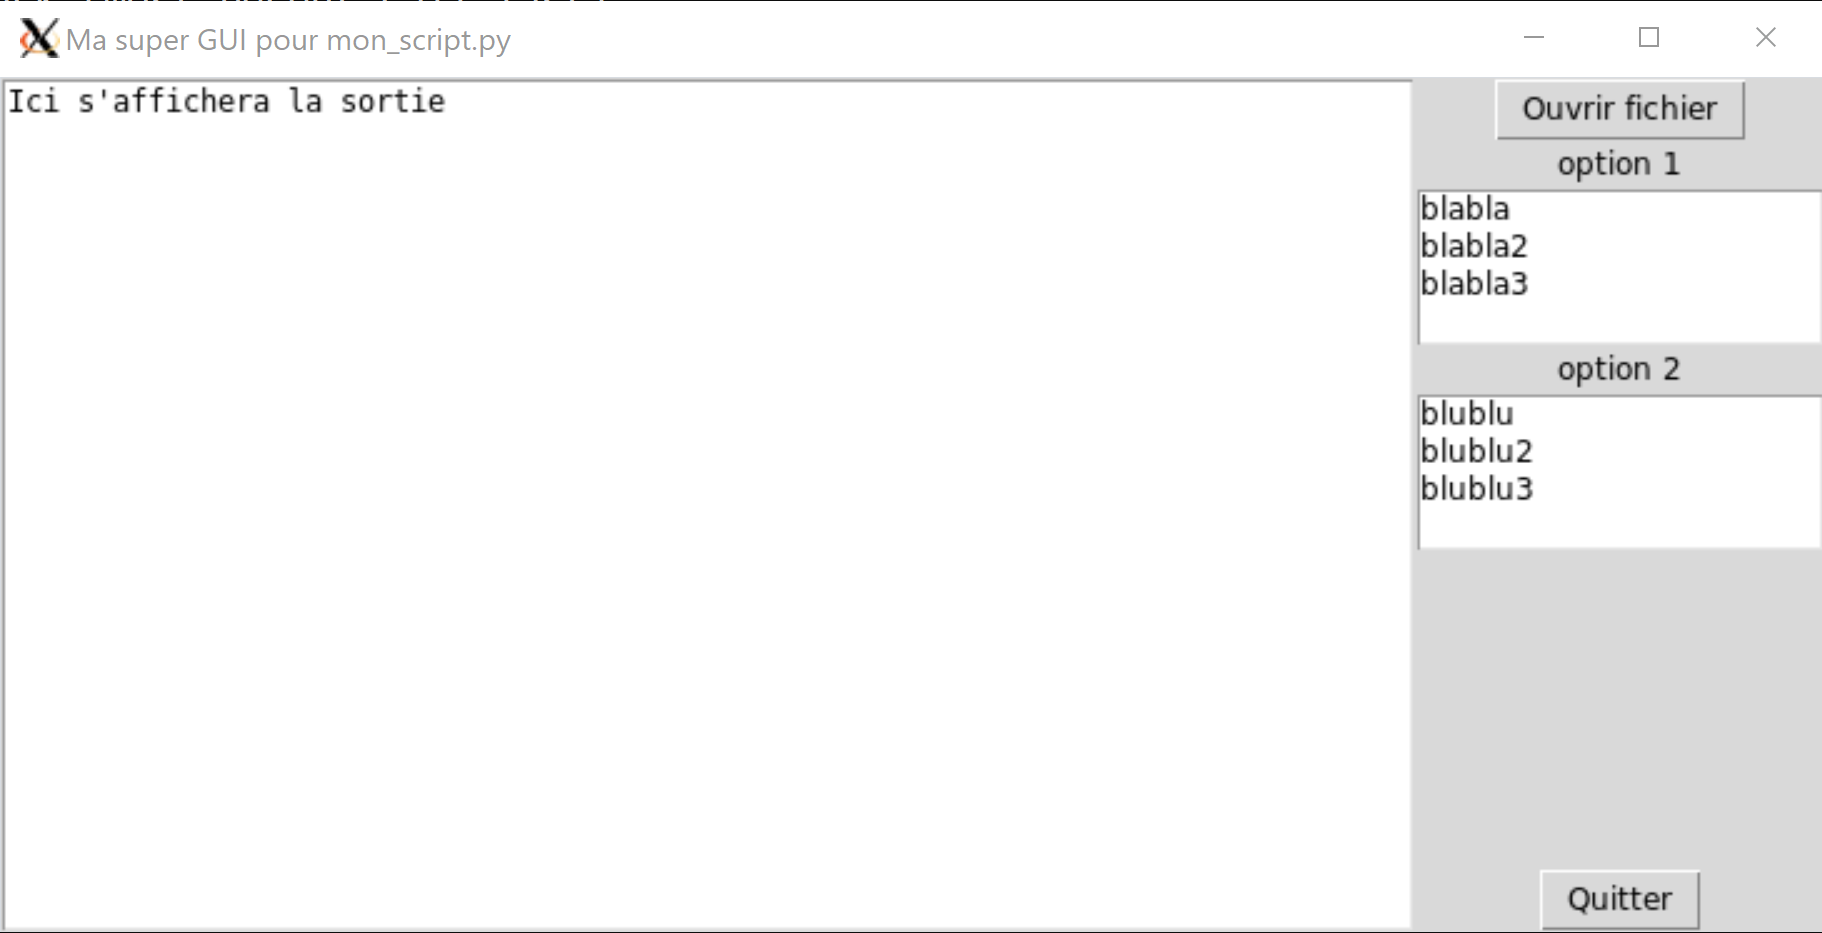
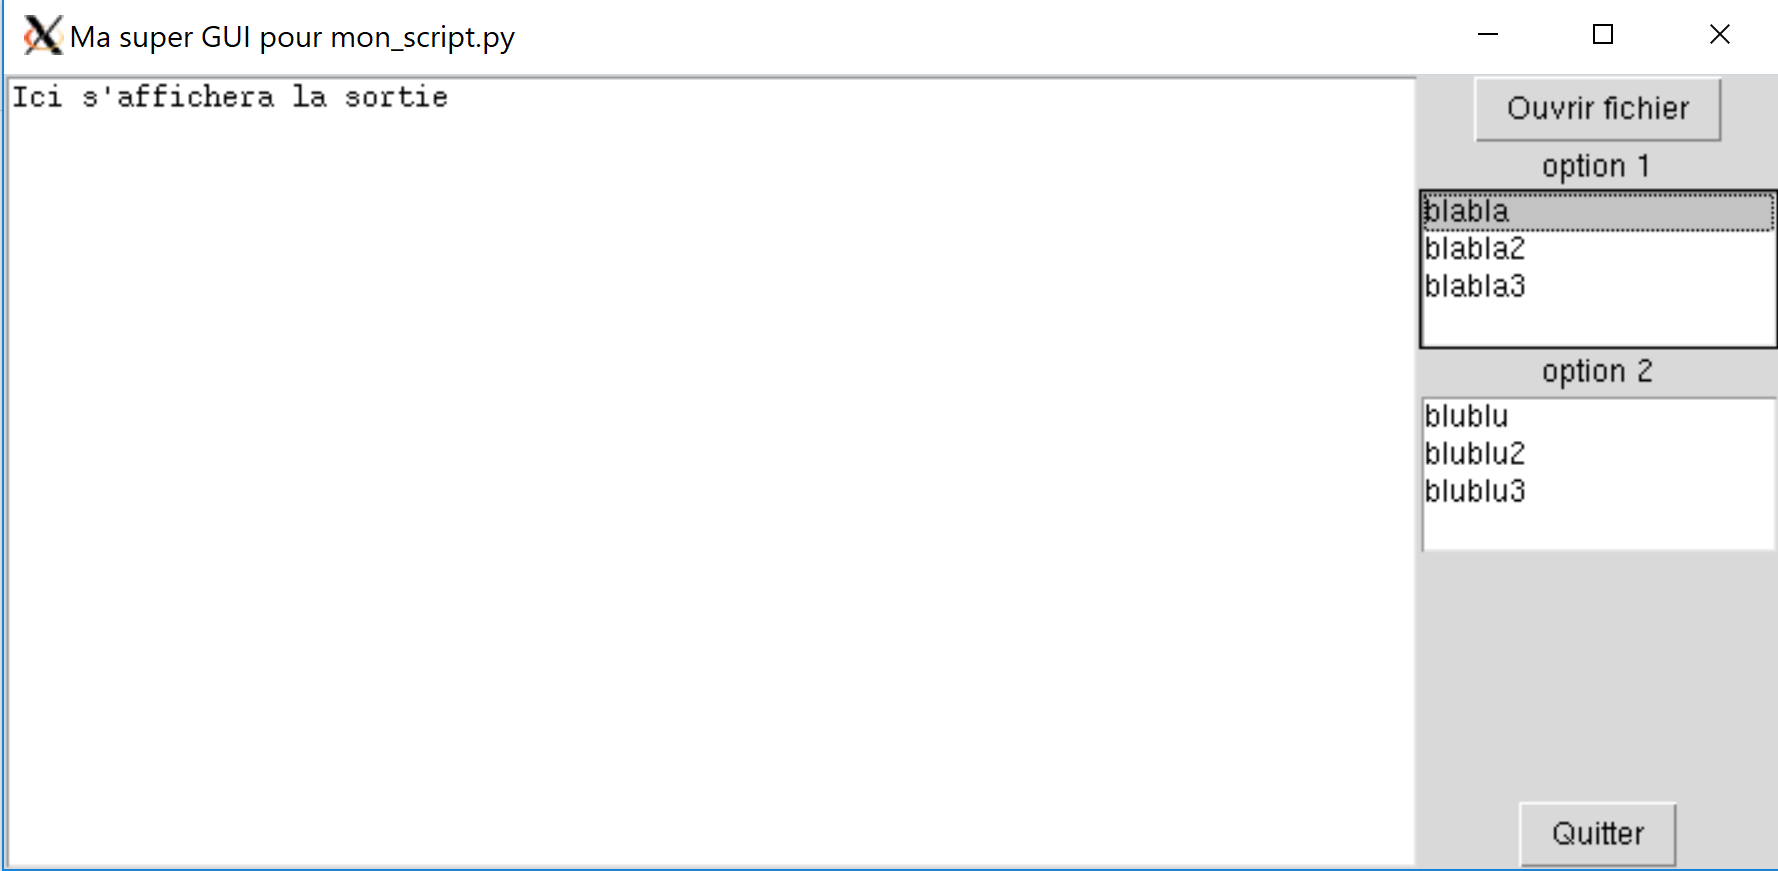
Ajoute source et mets à jour exemple GUI

Changed region(s): [[0.0, 0.0, 1.0, 1.0], [0.9589, 0.031, 0.9899, 0.062]]

diff --git a/img/exemple_GUI.py b/img/exemple_GUI.py
@@ -1,0 +1,36 @@
+#! /usr/bin/env python3
+
+import tkinter as tk
+
+racine = tk.Tk()
+
+text = tk.Text(racine)
+text.pack(side=tk.LEFT)
+text.insert(tk.INSERT, "Ici s'affichera la sortie")
+
+boutton_ouvrir = tk.Button(racine, text="Ouvrir fichier")
+boutton_ouvrir.pack()
+
+label = tk.Label(racine, text="option 1")
+label.pack()
+
+listbox = tk.Listbox(racine, height=4)
+listbox.pack()
+listbox.insert(1, "blabla")
+listbox.insert(2, "blabla2")
+listbox.insert(3, "blabla3")
+
+label2 = tk.Label(racine, text="option 2")
+label2.pack()
+
+listbox2 = tk.Listbox(racine, height=4)
+listbox2.pack()
+listbox2.insert(1, "blublu")
+listbox2.insert(2, "blublu2")
+listbox2.insert(3, "blublu3")
+
+boutton_quitter = tk.Button(racine, text="Quitter", command=racine.quit)
+boutton_quitter.pack(side=tk.BOTTOM)
+
+racine.title("Ma super GUI pour mon_script.py")
+racine.mainloop()
